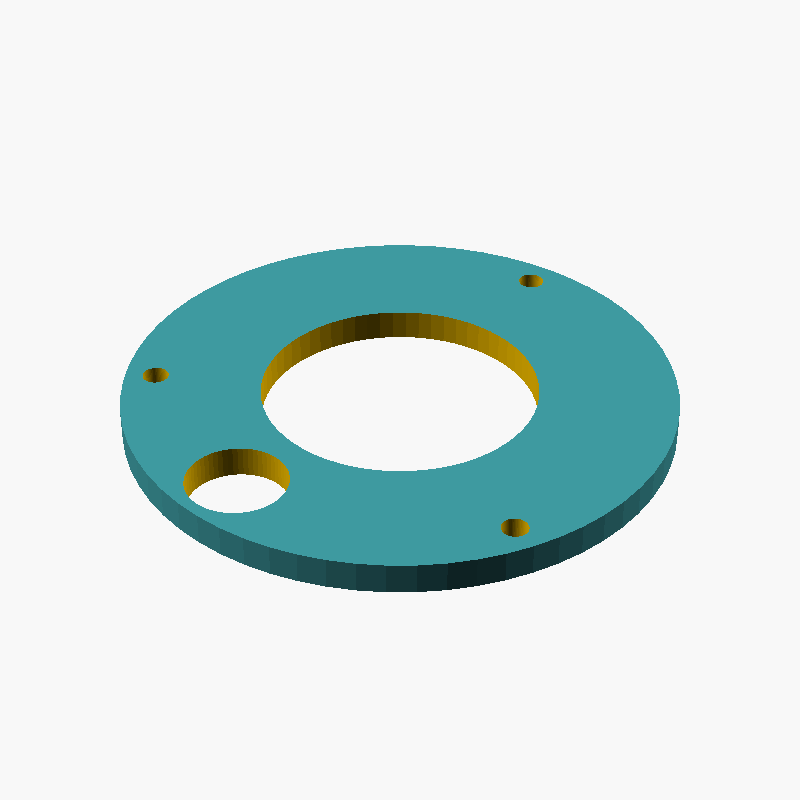
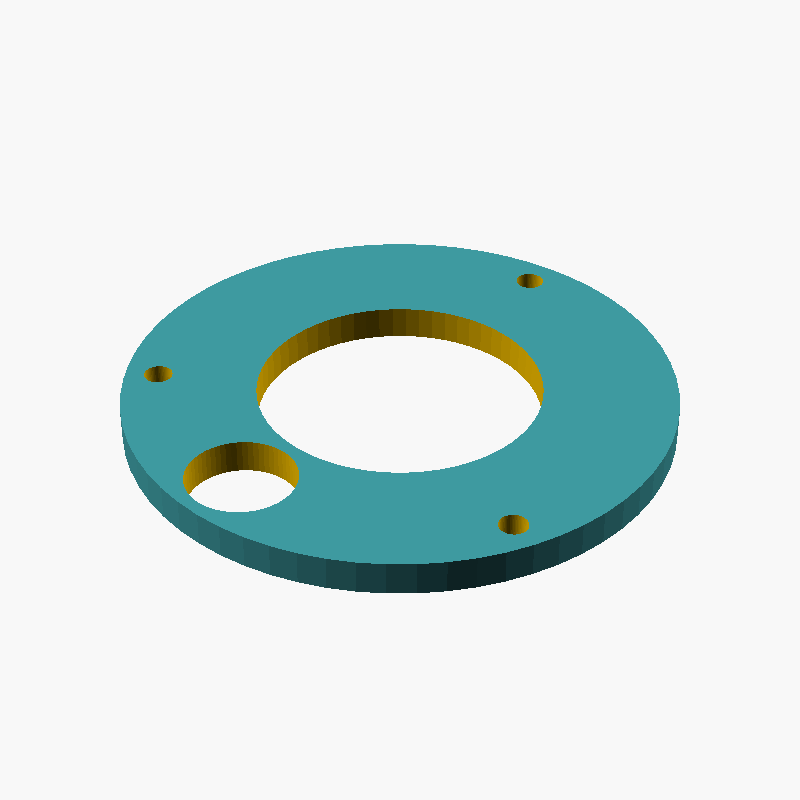
Scale feeder for a 50-case hopper; derive funnel from singulator
Cody's dimensions were placeholders and the hopper needs to hold 50+
cases, so the whole subsystem is resized around that requirement.

- Adopts the funnel derivation from his hopper_correct.scad: an
  exposure angle subtends a chord across the wheel, that chord is the
  outlet width, and the converging sides fall back from it at
  feedAngle. The funnel now always lands where the rim emerges, and
  moves automatically if the wheel is resized. Both bugs from the
  earlier draft are gone in his version (height= not depth=, translate
  outside the extrude).
- Hopper 40x50 -> 85x90, giving ~54 cases. dimensions.scad computes the
  estimate from packing geometry and asserts it stays >= 50, so a later
  shrink fails loudly instead of quietly under-delivering.
- DISK_OD 30 -> 50. This also dissolves the hub squeeze: a scallop cuts
  POCKET_D/2 into the rim, leaving usable radius of 9.8mm at 30mm but
  19.8mm at 50mm, so the 6mm magnets go back in (they had been forced
  down to 4mm) with 4.8mm of margin instead of 0.8.
- Tread width 20 -> 25 for a better cradle under a 44.7mm case.

diff --git a/docs/DESIGN.md b/docs/DESIGN.md
@@ -96,6 +96,16 @@ hopper pan feeds a scalloped-rim wheel that singulates cases off the bottom of t
   base-down on the pan's base plate, sticking out of its open front; the walls constrain them
   laterally near their bases. The lean makes the pile slide down the base plate, and the pan's
   lower sides — converging at a `feedAngle` of 30° — funnel it into the bottom outlet.
+- **Capacity**: sized for **at least 50 cases**. Because they stand base-down in a single layer,
+  capacity is just floor area ÷ area-per-case, so it's driven by the pan's footprint rather than
+  its depth. `dimensions.scad` computes this (~54 at the current 85×90mm pan, using hex packing at
+  the rim diameter derated 15% for loose dumping) and **asserts** it stays ≥50, so shrinking the
+  pan or growing the funnel fails loudly rather than quietly under-delivering. It's an estimate
+  from packing geometry — worth checking against a real handful of brass.
+- **The funnel is derived, not eyeballed**: `singulatorExposureAngle` sets how much of the wheel's
+  circumference is exposed to the pile; the chord that subtends *is* the outlet width, and the
+  converging sides fall back from it at `feedAngle`. So the funnel always lands exactly where the
+  wheel's rim emerges, and changing the wheel size moves the hopper to match automatically.
 - **The wheel's rim sits in that outlet, and its cylindrical *side* is the floor the bottom of the
   pile rests on.** This is the detail that makes the whole mechanism work, and it's easy to get
   wrong: the cases do not stand on the wheel's *face*, and the capture feature is not a hole
